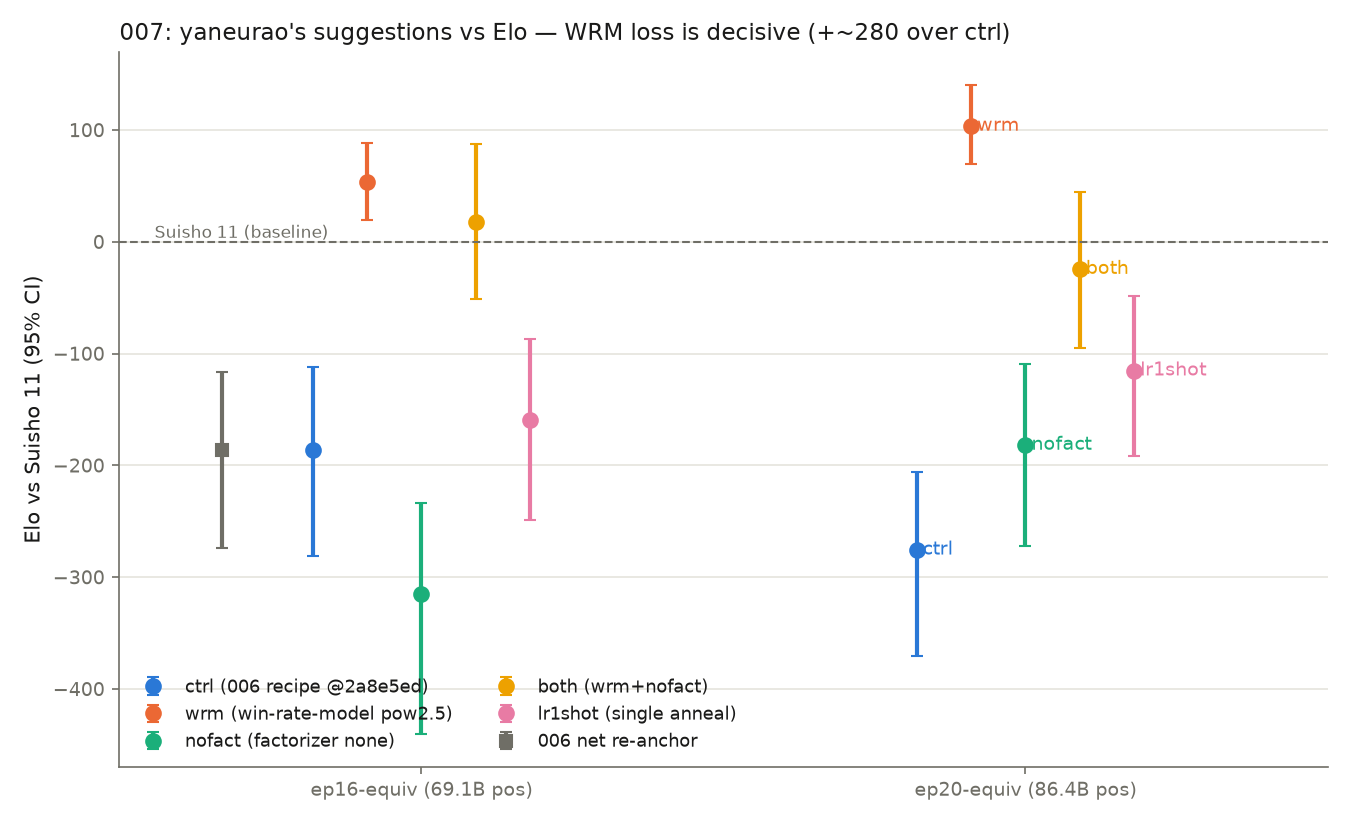
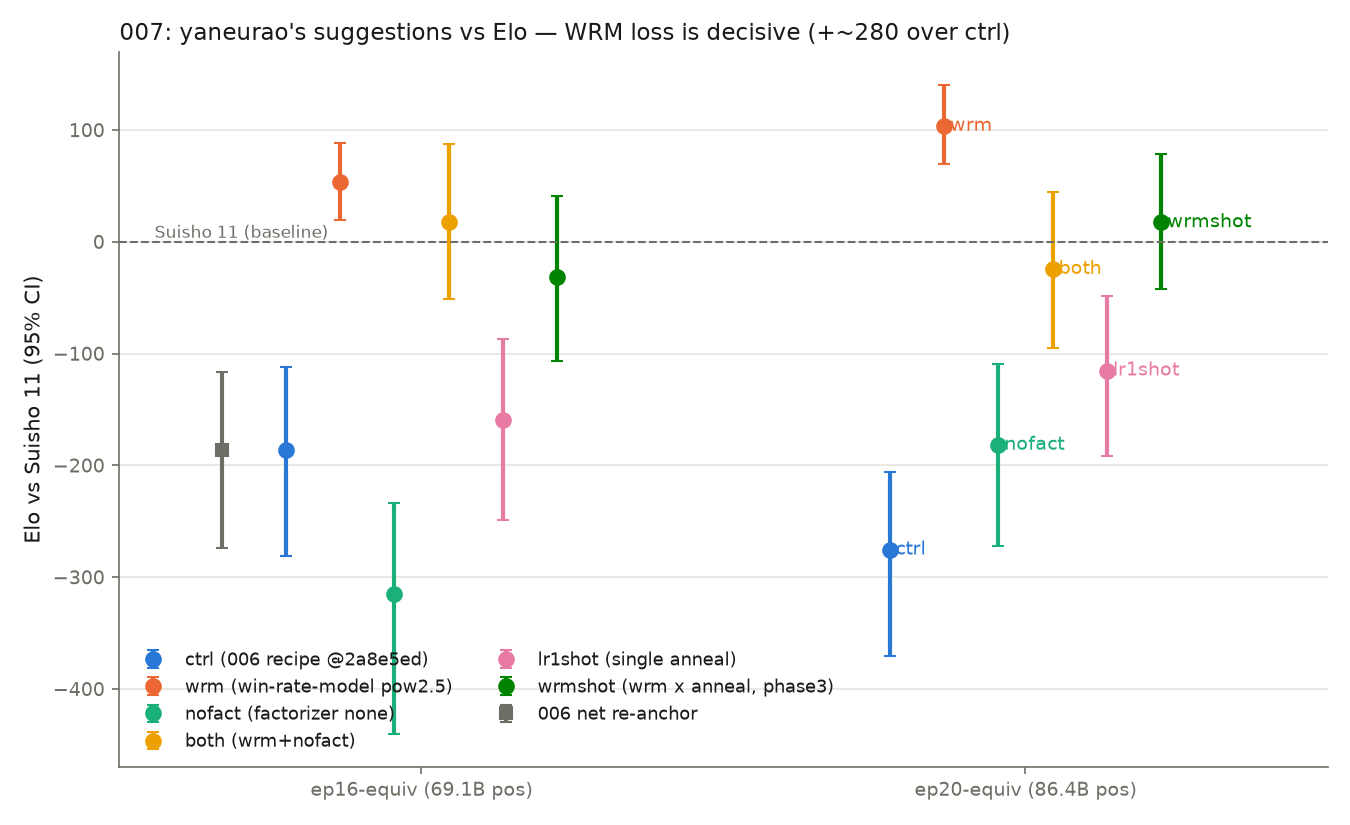
exp: 007 phase3 — wrm x single-anneal combo adds nothing (SPRT H0 at 66 pairs); final recommendation = wrm ep20

diff --git a/experiments/007-wrm-factorizer/plot_results.py b/experiments/007-wrm-factorizer/plot_results.py
@@ -27,6 +27,7 @@ ARMS = [
     ("nofact (factorizer none)", "007-nofact-ep{ep}-vs-suisho11", "#1baf7a"),
     ("both (wrm+nofact)", "007-both-ep{ep}-vs-suisho11", "#eda100"),
     ("lr1shot (single anneal)", "007-lr1shot-ep{ep}-vs-suisho11", "#e87ba4"),
+    ("wrmshot (wrm x anneal, phase3)", "007-wrmshot-ep{ep}-vs-suisho11", "#008300"),
 ]
 ANCHOR = ("006 net re-anchor", "006-yane-ep16-reanchor-vs-suisho11", "#6f6e66")
 
